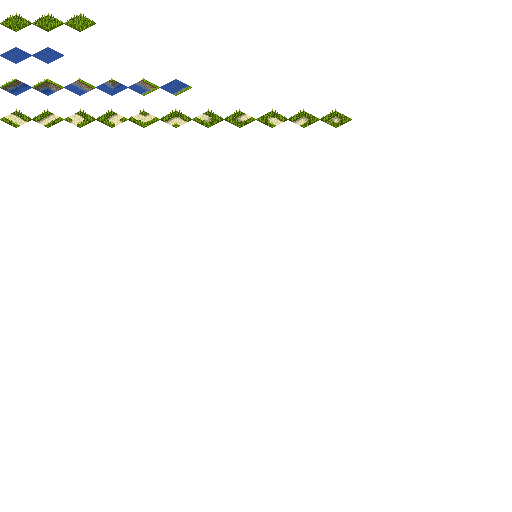
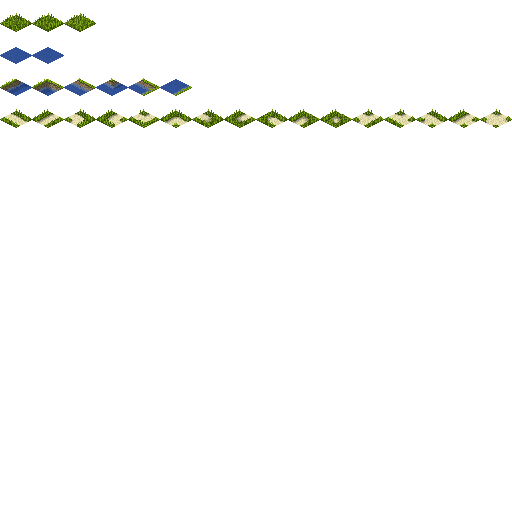
all paths

Changed region(s): [[0.6875, 0.2188, 1.0, 0.25]]

diff --git a/src/RoadBuilder.ts b/src/RoadBuilder.ts
@@ -133,11 +133,11 @@ export const ROAD_TYPE_TABLE: { [key: number]: string } = {
   0b1000: "path_end_top_right",
   0b0010: "path_end_bottom_left",
   0b0100: "path_end_bottom_right",
-  0b1011: "road_tee_tl",
-  0b1101: "road_tee_tr",
-  0b0111: "road_tee_bl",
-  0b1110: "road_tee_br",
-  0b1111: "road_cross",
+  0b1011: "path_tee_top_left",
+  0b1101: "path_tee_top_right",
+  0b0111: "path_tee_bottom_left",
+  0b1110: "path_tee_bottom_right",
+  0b1111: "path_cross",
   0b0000: "path_patch"
 };
 

diff --git a/src/index.ts b/src/index.ts
@@ -431,7 +431,14 @@ const TILE_IMG_INDICES: { [key: string]: number } = (() => {
       "path_end_top_right",
       "path_end_bottom_right",
       "path_end_bottom_left",
-      "path_patch"
+      "path_patch",
+
+      "path_tee_top_left",
+      "path_tee_top_right",
+      "path_tee_bottom_left",
+      "path_tee_bottom_right",
+
+      "path_cross",
     ]
   ];
   const tileMap: { [key: string]: number } = {};
